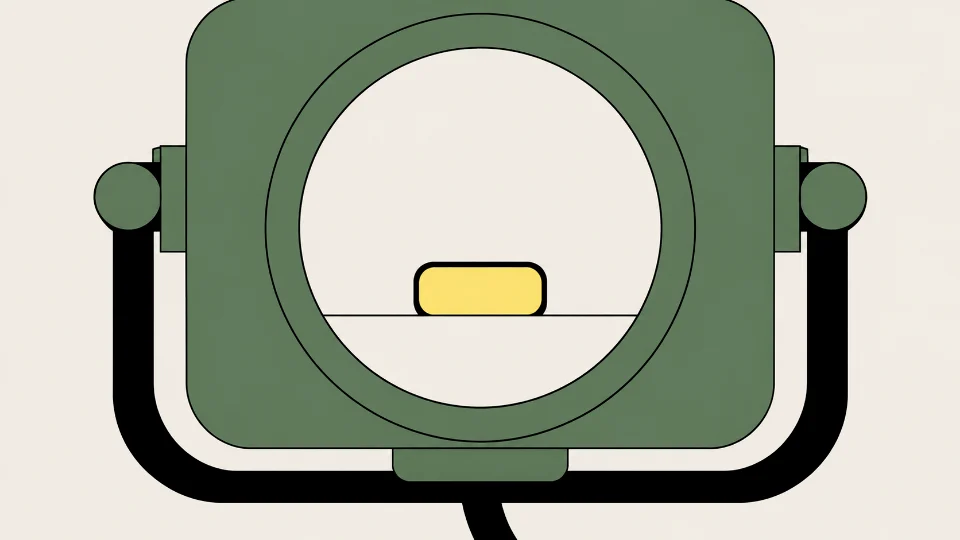
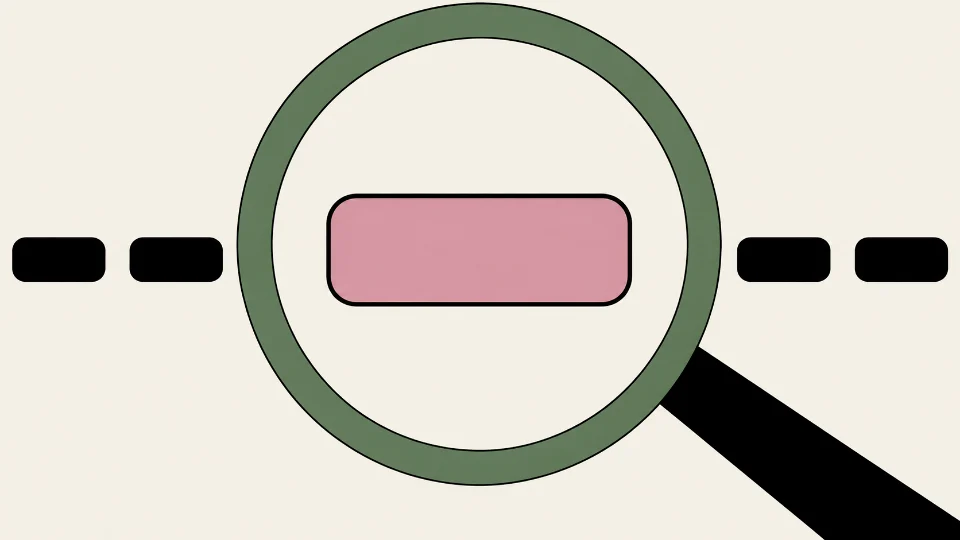
The tour's sixth drawing is a magnifying glass over a row of buttons, not a stage lamp seen from the front
The spotlight drawn face-on read as no object at all. The evidence note now
sits under a magnifying glass laid over five buttons, with the one it finds
shown large and rose in the lens. Prompt, alt, README and cache-buster move
with the file; 960x540 as before.

diff --git a/lab/agent-review.html b/lab/agent-review.html
@@ -384,7 +384,7 @@
                 <p class="wt-body">For a new pattern it states what it built, which components it built it from, and the alternative it did not take. The reviewer judges a decision, not a diff.</p>
               </div>
               <div class="wt-note" data-rect="936 268 494 152">
-                <img class="wt-art" src="../img/lab/tour-evidence.webp?v=1" width="960" height="540" loading="lazy" decoding="async" alt="A sage stage spotlight seen from the front; in its round lens, a yellow button on a cream shelf with a thick black ring drawn around it." />
+                <img class="wt-art" src="../img/lab/tour-evidence.webp?v=2" width="960" height="540" loading="lazy" decoding="async" alt="A sage magnifying glass held over a row of small black buttons; in its lens, one button shown large and filled rose." />
                 <p class="wt-kicker"><span class="wt-num">6</span>The evidence</p>
                 <h3>The affected screen, rendered from the branch.</h3>
                 <p class="wt-body">Not a screenshot. The preview runs the agent’s code in the state that shows the finding, with the element outlined, before and after, at three widths.</p>

diff --git a/README.md b/README.md
@@ -318,7 +318,7 @@ guided tour of that first capture (`walkthrough.css`, `walkthrough.js`), and
 each of its seven notes carries a small drawing, `img/lab/tour-<part>.webp`,
 16:9 at 960x540: the writing set's hand and its sage, one everyday object a
 note (a branch not yet joined, a clipboard of five checks, a power strip, a
-sieve, a watch with its back open, a spotlight, a signal), prompts in
+sieve, a watch with its back open, a magnifying glass, a signal), prompts in
 `scripts/tour-scenes.mjs`, drawn and filed through `scripts/draw.mjs --set
 tour` and cut by `illustrate.mjs tour`. The drawing the card carried before
 that, and the script that drew it, are gone. The lab band that briefly sat
